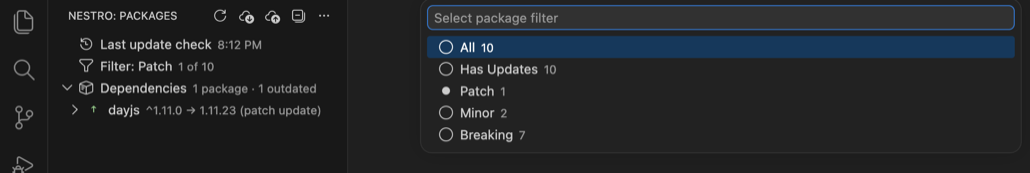
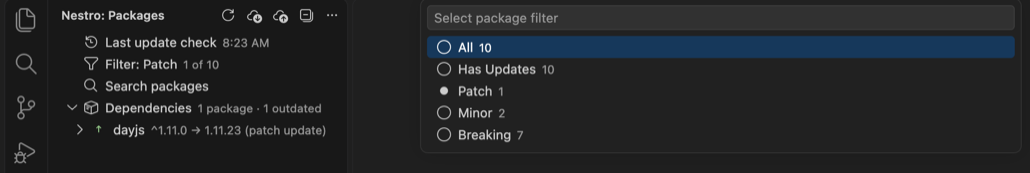
docs: document update check progress, filter rows and the vulnerable filter

diff --git a/CLAUDE.md b/CLAUDE.md
@@ -40,7 +40,7 @@ Manual testing: **F5** → Run Extension (`.vscode/launch.json`) → Extension D
    status report; because the failure is recorded, `nestro.noWorkspace` stays false. `WorkspaceCapabilityResolver`
    resolves global action flags and probes Yarn family outside `runWithYarnFamilyMemo()`, preserving the existing
    uncached call behavior. `getStatusReport()` delegates defensive snapshot assembly to `statusReportAssembler.ts`.
-3. `checkUpdates()` delegates to `UpdateOrchestrationService.check()` (`src/providers/updateOrchestrationService.ts`), which calls `fetchAllLatestVersions()` (ncuClient → `npm-check-updates`) and the metadata registry → enriches each entry with the accepted version, `updateType`, and release-age state (`accepted`, `held-back`, or `unknown`), preserving any live `installing` state set by `markPackageUpdating()`. `checkUpdates()` reports `UpdateCheckProgress` events (phase, counts, last finished package file) to the notification through `updateCheckProgress.ts`. Update results are cached to avoid redundant network calls.
+3. `checkUpdates()` delegates to `UpdateOrchestrationService.check()` (`src/providers/updateOrchestrationService.ts`), which calls `fetchAllLatestVersions()` (ncuClient → `npm-check-updates`) and the metadata registry → enriches each entry with the accepted version, `updateType`, and release-age state (`accepted`, `held-back`, or `unknown`), preserving any live `installing` state set by `markPackageUpdating()`. Release-date lookups run in parallel through `metadataCoordinator`; `checkUpdates()` reports `UpdateCheckProgress` events (phase, counts, last finished package file) to the notification through `updateCheckProgress.ts`. Update results are cached to avoid redundant network calls.
 4. `getChildren()` delegates to `buildTree()` (`src/providers/treeBuilder.ts`) which returns `GroupItem[]` (or `WorkspaceFolderItem[]` when the workspace has more than one `package.json`) — groups split into Dependencies / Dev Dependencies. The active filter/search state renders as `treeView.description` (`formatViewDescription()`), not as tree rows.
 5. Commands mutate provider state via `markPackageUpdating()` / `markPackageUpdated()` / `resetUpdateData()` / `invalidateUpdateCache()`, then fire `_onDidChangeTreeData`. The state-only `markPackageUpdating()` / `markPackageUpdated()` methods take an exact `PackageStateIdentity` tuple `(packageName, packageFilePath, section)`; package-row commands use provider-issued `ResolvedPackageItem` capabilities through `markPackageUpdatingForCapability()` / `markPackageUpdatedForCapability()`, which reject stale capabilities.
 
@@ -80,18 +80,18 @@ Manual testing: **F5** → Run Extension (`.vscode/launch.json`) → Extension D
 - `packageLabels.ts` — the single owner-qualified and relative package-file label builder used by tree rows, package rows, details, status reports, and Update All messages
 - `packageLabelPaths.ts` — normalizes package paths for labels across POSIX, drive, and UNC forms and sanitizes path text
 - `packageLabelDisambiguation.ts` — assigns stable workspace display names and unique label suffixes
-- `FilterManager.ts` — manages active `FilterType` and search state plus the audit-only `vulnerable` view filter (`PackageFilter`), set by `showVulnerable()` and never offered in the picker or saved; fires `onDidChange`, provides QuickPick UI, and reads filter icon colors from `PACKAGE_PRESENTATION`
+- `FilterManager.ts` — manages active `FilterType` and search state plus the audit-only `vulnerable` view filter (`PackageFilter`), set by `showVulnerable()` and never offered in the picker or saved; the hidden `nestro.showVulnerablePackages` command invokes it; fires `onDidChange`, provides QuickPick UI, and reads filter icon colors from `PACKAGE_PRESENTATION`
 - `treeBuilder.ts` — pure package-tree filtering, grouping, projection, and item construction; delegates owner and relative package-file labels to `packageLabels.ts`. Multi-root file rows preserve `WorkspaceFolder.index` ordering, root before subpaths, and alphabetical order within a folder. `getFilterCounts()` excludes packages currently installing; `formatViewDescription()` renders the active filter/search state for `treeView.description`.
 - `auditOrchestrationService.ts` — `AuditOrchestrationService.run()` wraps project resolution and audit work in one `runWithYarnFamilyMemo()` scope, resolves audit projects via `clients` (`resolveAuditProjects()`), runs each project's package-manager audit (`auditProjectRunner.ts`), and folds the per-project outcomes into the `AuditProjectSummary` / `AuditProjectFailure` results `runAudit()` publishes; row attribution lives in `auditRowAttribution.ts` (a row takes the highest severity among its attributed advisories, matching versions through `auditVersionMatching.ts`), and for npm audit report v2, whose advisories carry no version field, `auditInstalledVersion.ts` resolves the installed version from an advisory's single direct `node_modules/<name>` node (`parseDirectNodeModulesNode()`) through a bounded reader (`readNodePackageJsonVersion()`) gated by a realpath-inside-project-root check, leaving anything ambiguous report-only
 - `operationLifecycle.ts` — `OperationLifecycle<T>` owns one operation's generation, `AbortController`, completion and progress cancellation (including a token cancelled before the task starts); load/update/audit controllers keep one each, and `waitForCurrent()` lets checks and audits wait for the current load
 - `packageLoadingService.ts` — `PackageLoadingService.load()` reads workspace `package.json` files and resolves each one's canonical on-disk location into a `PackageLoadingSnapshot` (entries, package file paths, read failures) that `loadPackages()` applies to `PackageRowStore.allEntries`
 - `manifestWriteBaselines.ts` — `ManifestWriteBaselines` compares SHA-256 snapshots around provider writes and keeps a baseline only for a manifest the write changed, dropping it once the file's digest no longer matches
-- `updateOrchestrationService.ts` — `UpdateOrchestrationService.check()` wraps a complete check in `runWithYarnFamilyMemo()` and coordinates cache/debounce and fingerprint reuse; exports `computeUpdateFingerprint()` for the content-fingerprint gate described in Key patterns
+- `updateOrchestrationService.ts` — `UpdateOrchestrationService.check()` wraps a complete check in `runWithYarnFamilyMemo()` and `runWithRegistryConfigMemo()` and coordinates cache/debounce and fingerprint reuse; exports `computeUpdateFingerprint()` for the content-fingerprint gate described in Key patterns
 - `updateCheckProgress.ts` — formats update-check progress messages and monotonic increments for the notification
 - `updateOrchestrationTypes.ts` — update orchestration contracts and result types, re-exported by `updateOrchestrationService.ts` to preserve its public API
 - `updateFingerprint.ts` — computes the content fingerprint from canonical manifest paths, on-disk dependency specs, and update policy
 - `updateCheckFetcher.ts` — resolves canonical coordinator keys, fetches per-manifest latest versions, and reports unresolved roots as explicit per-root failures
-- `updateMetadataFetcher.ts` — resolves registry keys and fetches release-date metadata for unique (registry, package) pairs, bounded only by the metadata coordinator
+- `updateMetadataFetcher.ts` — resolves registry keys and fetches unique (registry, package) release-date lookups in parallel, bounded by `metadataCoordinator` (`METADATA_CONCURRENCY_CAP` is 8)
 - `updateReleaseAge.ts` — classifies the accepted version's release age from the metadata outcomes and current version
 - `updateCache.ts` — owns the cache record, policy key, TTL freshness, and debounce decision
 - `updateResultApplication.ts` — rechecks the fingerprint and current policy before applying results, rejects stale or invalidated fetches, and updates the cache
@@ -101,7 +101,7 @@ Manual testing: **F5** → Run Extension (`.vscode/launch.json`) → Extension D
 - `packageIdentity.ts` — canonical row identity shared by the loading, update, and audit services: `packageIdentityKey()` is the single row identity-key builder; `packageIdentityFromValues()` creates the exact `(name, packageFilePath, section)` tuple, and dependency specs are read from one manifest parse
 - `packageLocationResolution.ts` — `resolveCanonicalPackageLocation()` validates manifest paths against the unique deepest workspace owner; `samePackageFileStamp()` checks whether a manifest still matches its captured stat identity
 - `PackageItem.ts` — defines the package tree row, normalizes active operations, and guards command arguments with `isPackageItem()`
-- `packageItemPresentation.ts` — builds package row descriptions, tooltips, context values, icons, accessibility labels, release-age text, fallback workspace labels, and sanitized package text
+- `packageItemPresentation.ts` — builds package row descriptions, tooltips, context values, icons, accessibility labels, release-age text, fallback workspace labels, and sanitized package text; `sanitizePackageText()` redacts credentials before inline sanitization
 - `PackageDetailItem.ts`, `GroupItem.ts`, `StatusItem.ts`, `LoadingItem.ts`, `MessageItem.ts`, `WorkspaceFolderItem.ts` — other tree item classes
 - `index.ts` — barrel exports for providers
 
@@ -183,7 +183,7 @@ Bottom layer: imports only Node built-ins — never `vscode` or another subsyste
 - `errors.ts` — `describeError()` (an `Error`'s message, otherwise `String(value)`) and `describeStderr()` (`; stderr: …` suffix, empty for blank stderr)
 - `fs.ts` — `hasErrorCode()`, `readOptionalFile()` (returns `undefined` only for `ENOENT`), and lexical `isPathWithin()`
 - `ids.ts` — `COMMAND_IDS`, `VIEW_IDS`, `CONTEXT_KEYS`, and `CONTEXT_VALUE_TOKENS` are the shared command, view, context-key, and tree-token registries
-- `text.ts` — the single text sanitizer and secret redactor: `sanitizeMultilineText()` (ANSI escapes and control characters stripped, line breaks normalized to LF, tabs to spaces; used by the logger), `sanitizeInlineText()` (single-line surfaces: controls and line-break runs become spaces, cut to 240 characters by default; used by tree items, audit report and conflict messages), and `redactCredentials()` (URL user info — any for http(s) URLs, `user:password` for other schemes, `Authorization` values, credential assignments in plain, quoted and JSON form, npm tokens; generic `token`/`api-key` values are masked from a minimum length, 16 by default, and trailing `)`/`]` stay outside the masked value)
+- `text.ts` — the single text sanitizer and secret redactor: `sanitizeMultilineText()` (ANSI escapes and control characters stripped, line breaks normalized to LF, tabs to spaces; used by the logger), `sanitizeInlineText()` (single-line surfaces: controls and line-break runs become spaces, cut to 240 characters by default; used by tree items, audit report and conflict messages), and `redactCredentials()` (removes all user info from `http(s)` and `*+http(s)` URLs, removes `user:password` from other schemes, masks `Authorization` values, credential assignments in plain, quoted and JSON form, and npm tokens; generic `token`/`api-key` values are masked from a minimum length, 16 by default, and trailing `)`/`]` stay outside the masked value)
 - `settingValues.ts` — the vscode-free knowledge behind `nestro.*` settings: `UPDATE_TARGETS`, `FILTER_TYPES` (with `isUpdateTarget()` / `isFilterType()`), the minimum release-age default and maximum, and `readMinimumReleaseAgeDays()` (a whole number in range is kept, anything else becomes the default); `config`, `providers` and `utils` import these instead of redefining them
 - `versionGrammar.ts` — the single version/spec grammar: one anchored SemVer pattern behind `parseConcreteSemver()` / `isConcreteSemver()`, `parseVersionString()` (optional `workspace:` and comparator operator, then an exact SemVer; aliases, tags and compound ranges are `undefined`), `unwrapNpmAlias()`, `rangeBaseVersion()` (first comparator of a range's first `||` alternative, when an exact SemVer), `extractRangePrefix()` / `stripVersionDecorations()`, `isVersionOperand()` (the install-operand allowlist) and the `WORKSPACE_PROTOCOL` constant; read by `dependencySpec.ts`, `versionUtils.ts`, `packageTransforms.ts`, `registryClient.ts`, `pickVersion.ts` and `operandValidation.ts`
 - `packageManagers.ts` — the package-manager table: `PACKAGE_MANAGERS` holds each manager's bin, lock files, install/add/remove verbs, dev flag, optional workspace-root flag (`removeNeedsWorkspaceRootFlag` when `remove` needs it too) and command dialect (audit argv, native metadata argv up to `--`, registry config file name), `YARN_DIALECTS` the Classic/Modern pairs; `PackageManager`, `DEFAULT_PACKAGE_MANAGER`, `LOCKFILES` in detection order (`LOCKFILE_PRIORITY`: pnpm, Yarn, Bun, npm), `NODE_MODULES_EXCLUDE_GLOB`, `isPackageManager()`, and `parsePackageManagerField()` (the single reader of a manifest `packageManager` field); adding a manager is one entry here plus its audit-schema parser

diff --git a/AGENTS.md b/AGENTS.md
@@ -38,7 +38,7 @@ Manual testing: **F5** → Run Extension (`.vscode/launch.json`) → Extension D
    status report; because the failure is recorded, `nestro.noWorkspace` stays false. `WorkspaceCapabilityResolver`
    resolves global action flags and probes Yarn family outside `runWithYarnFamilyMemo()`, preserving the existing
    uncached call behavior. `getStatusReport()` delegates defensive snapshot assembly to `statusReportAssembler.ts`.
-3. `checkUpdates()` delegates to `UpdateOrchestrationService.check()` (`src/providers/updateOrchestrationService.ts`), which calls `fetchAllLatestVersions()` (ncuClient → `npm-check-updates`) and the metadata registry → enriches each entry with the accepted version, `updateType`, and release-age state (`accepted`, `held-back`, or `unknown`), preserving any live `installing` state set by `markPackageUpdating()`. `checkUpdates()` reports `UpdateCheckProgress` events (phase, counts, last finished package file) to the notification through `updateCheckProgress.ts`. Update results are cached to avoid redundant network calls.
+3. `checkUpdates()` delegates to `UpdateOrchestrationService.check()` (`src/providers/updateOrchestrationService.ts`), which calls `fetchAllLatestVersions()` (ncuClient → `npm-check-updates`) and the metadata registry → enriches each entry with the accepted version, `updateType`, and release-age state (`accepted`, `held-back`, or `unknown`), preserving any live `installing` state set by `markPackageUpdating()`. Release-date lookups run in parallel through `metadataCoordinator`; `checkUpdates()` reports `UpdateCheckProgress` events (phase, counts, last finished package file) to the notification through `updateCheckProgress.ts`. Update results are cached to avoid redundant network calls.
 4. `getChildren()` delegates to `buildTree()` (`src/providers/treeBuilder.ts`) which returns `GroupItem[]` (or `WorkspaceFolderItem[]` when the workspace has more than one `package.json`) — groups split into Dependencies / Dev Dependencies. The active filter/search state renders as `treeView.description` (`formatViewDescription()`), not as tree rows.
 5. Commands mutate provider state via `markPackageUpdating()` / `markPackageUpdated()` / `resetUpdateData()` / `invalidateUpdateCache()`, then fire `_onDidChangeTreeData`. The state-only `markPackageUpdating()` / `markPackageUpdated()` methods take an exact `PackageStateIdentity` tuple `(packageName, packageFilePath, section)`; package-row commands use provider-issued `ResolvedPackageItem` capabilities through `markPackageUpdatingForCapability()` / `markPackageUpdatedForCapability()`, which reject stale capabilities.
 
@@ -78,18 +78,18 @@ Manual testing: **F5** → Run Extension (`.vscode/launch.json`) → Extension D
 - `packageLabels.ts` — the single owner-qualified and relative package-file label builder used by tree rows, package rows, details, status reports, and Update All messages
 - `packageLabelPaths.ts` — normalizes package paths for labels across POSIX, drive, and UNC forms and sanitizes path text
 - `packageLabelDisambiguation.ts` — assigns stable workspace display names and unique label suffixes
-- `FilterManager.ts` — manages active `FilterType` and search state plus the audit-only `vulnerable` view filter (`PackageFilter`), set by `showVulnerable()` and never offered in the picker or saved; fires `onDidChange`, provides QuickPick UI, and reads filter icon colors from `PACKAGE_PRESENTATION`
+- `FilterManager.ts` — manages active `FilterType` and search state plus the audit-only `vulnerable` view filter (`PackageFilter`), set by `showVulnerable()` and never offered in the picker or saved; the hidden `nestro.showVulnerablePackages` command invokes it; fires `onDidChange`, provides QuickPick UI, and reads filter icon colors from `PACKAGE_PRESENTATION`
 - `treeBuilder.ts` — pure package-tree filtering, grouping, projection, and item construction; delegates owner and relative package-file labels to `packageLabels.ts`. Multi-root file rows preserve `WorkspaceFolder.index` ordering, root before subpaths, and alphabetical order within a folder. `getFilterCounts()` excludes packages currently installing; `formatViewDescription()` renders the active filter/search state for `treeView.description`.
 - `auditOrchestrationService.ts` — `AuditOrchestrationService.run()` wraps project resolution and audit work in one `runWithYarnFamilyMemo()` scope, resolves audit projects via `clients` (`resolveAuditProjects()`), runs each project's package-manager audit (`auditProjectRunner.ts`), and folds the per-project outcomes into the `AuditProjectSummary` / `AuditProjectFailure` results `runAudit()` publishes; row attribution lives in `auditRowAttribution.ts` (a row takes the highest severity among its attributed advisories, matching versions through `auditVersionMatching.ts`), and for npm audit report v2, whose advisories carry no version field, `auditInstalledVersion.ts` resolves the installed version from an advisory's single direct `node_modules/<name>` node (`parseDirectNodeModulesNode()`) through a bounded reader (`readNodePackageJsonVersion()`) gated by a realpath-inside-project-root check, leaving anything ambiguous report-only
 - `operationLifecycle.ts` — `OperationLifecycle<T>` owns one operation's generation, `AbortController`, completion and progress cancellation (including a token cancelled before the task starts); load/update/audit controllers keep one each, and `waitForCurrent()` lets checks and audits wait for the current load
 - `packageLoadingService.ts` — `PackageLoadingService.load()` reads workspace `package.json` files and resolves each one's canonical on-disk location into a `PackageLoadingSnapshot` (entries, package file paths, read failures) that `loadPackages()` applies to `PackageRowStore.allEntries`
 - `manifestWriteBaselines.ts` — `ManifestWriteBaselines` compares SHA-256 snapshots around provider writes and keeps a baseline only for a manifest the write changed, dropping it once the file's digest no longer matches
-- `updateOrchestrationService.ts` — `UpdateOrchestrationService.check()` wraps a complete check in `runWithYarnFamilyMemo()` and coordinates cache/debounce and fingerprint reuse; exports `computeUpdateFingerprint()` for the content-fingerprint gate described in Key patterns
+- `updateOrchestrationService.ts` — `UpdateOrchestrationService.check()` wraps a complete check in `runWithYarnFamilyMemo()` and `runWithRegistryConfigMemo()` and coordinates cache/debounce and fingerprint reuse; exports `computeUpdateFingerprint()` for the content-fingerprint gate described in Key patterns
 - `updateCheckProgress.ts` — formats update-check progress messages and monotonic increments for the notification
 - `updateOrchestrationTypes.ts` — update orchestration contracts and result types, re-exported by `updateOrchestrationService.ts` to preserve its public API
 - `updateFingerprint.ts` — computes the content fingerprint from canonical manifest paths, on-disk dependency specs, and update policy
 - `updateCheckFetcher.ts` — resolves canonical coordinator keys, fetches per-manifest latest versions, and reports unresolved roots as explicit per-root failures
-- `updateMetadataFetcher.ts` — resolves registry keys and fetches release-date metadata for unique (registry, package) pairs, bounded only by the metadata coordinator
+- `updateMetadataFetcher.ts` — resolves registry keys and fetches unique (registry, package) release-date lookups in parallel, bounded by `metadataCoordinator` (`METADATA_CONCURRENCY_CAP` is 8)
 - `updateReleaseAge.ts` — classifies the accepted version's release age from the metadata outcomes and current version
 - `updateCache.ts` — owns the cache record, policy key, TTL freshness, and debounce decision
 - `updateResultApplication.ts` — rechecks the fingerprint and current policy before applying results, rejects stale or invalidated fetches, and updates the cache
@@ -99,7 +99,7 @@ Manual testing: **F5** → Run Extension (`.vscode/launch.json`) → Extension D
 - `packageIdentity.ts` — canonical row identity shared by the loading, update, and audit services: `packageIdentityKey()` is the single row identity-key builder; `packageIdentityFromValues()` creates the exact `(name, packageFilePath, section)` tuple, and dependency specs are read from one manifest parse
 - `packageLocationResolution.ts` — `resolveCanonicalPackageLocation()` validates manifest paths against the unique deepest workspace owner; `samePackageFileStamp()` checks whether a manifest still matches its captured stat identity
 - `PackageItem.ts` — defines the package tree row, normalizes active operations, and guards command arguments with `isPackageItem()`
-- `packageItemPresentation.ts` — builds package row descriptions, tooltips, context values, icons, accessibility labels, release-age text, fallback workspace labels, and sanitized package text
+- `packageItemPresentation.ts` — builds package row descriptions, tooltips, context values, icons, accessibility labels, release-age text, fallback workspace labels, and sanitized package text; `sanitizePackageText()` redacts credentials before inline sanitization
 - `PackageDetailItem.ts`, `GroupItem.ts`, `StatusItem.ts`, `LoadingItem.ts`, `MessageItem.ts`, `WorkspaceFolderItem.ts` — other tree item classes
 - `index.ts` — barrel exports for providers
 
@@ -181,7 +181,7 @@ Bottom layer: imports only Node built-ins — never `vscode` or another subsyste
 - `errors.ts` — `describeError()` (an `Error`'s message, otherwise `String(value)`) and `describeStderr()` (`; stderr: …` suffix, empty for blank stderr)
 - `fs.ts` — `hasErrorCode()`, `readOptionalFile()` (returns `undefined` only for `ENOENT`), and lexical `isPathWithin()`
 - `ids.ts` — `COMMAND_IDS`, `VIEW_IDS`, `CONTEXT_KEYS`, and `CONTEXT_VALUE_TOKENS` are the shared command, view, context-key, and tree-token registries
-- `text.ts` — the single text sanitizer and secret redactor: `sanitizeMultilineText()` (ANSI escapes and control characters stripped, line breaks normalized to LF, tabs to spaces; used by the logger), `sanitizeInlineText()` (single-line surfaces: controls and line-break runs become spaces, cut to 240 characters by default; used by tree items, audit report and conflict messages), and `redactCredentials()` (URL user info — any for http(s) URLs, `user:password` for other schemes, `Authorization` values, credential assignments in plain, quoted and JSON form, npm tokens; generic `token`/`api-key` values are masked from a minimum length, 16 by default, and trailing `)`/`]` stay outside the masked value)
+- `text.ts` — the single text sanitizer and secret redactor: `sanitizeMultilineText()` (ANSI escapes and control characters stripped, line breaks normalized to LF, tabs to spaces; used by the logger), `sanitizeInlineText()` (single-line surfaces: controls and line-break runs become spaces, cut to 240 characters by default; used by tree items, audit report and conflict messages), and `redactCredentials()` (removes all user info from `http(s)` and `*+http(s)` URLs, removes `user:password` from other schemes, masks `Authorization` values, credential assignments in plain, quoted and JSON form, and npm tokens; generic `token`/`api-key` values are masked from a minimum length, 16 by default, and trailing `)`/`]` stay outside the masked value)
 - `settingValues.ts` — the vscode-free knowledge behind `nestro.*` settings: `UPDATE_TARGETS`, `FILTER_TYPES` (with `isUpdateTarget()` / `isFilterType()`), the minimum release-age default and maximum, and `readMinimumReleaseAgeDays()` (a whole number in range is kept, anything else becomes the default); `config`, `providers` and `utils` import these instead of redefining them
 - `versionGrammar.ts` — the single version/spec grammar: one anchored SemVer pattern behind `parseConcreteSemver()` / `isConcreteSemver()`, `parseVersionString()` (optional `workspace:` and comparator operator, then an exact SemVer; aliases, tags and compound ranges are `undefined`), `unwrapNpmAlias()`, `rangeBaseVersion()` (first comparator of a range's first `||` alternative, when an exact SemVer), `extractRangePrefix()` / `stripVersionDecorations()`, `isVersionOperand()` (the install-operand allowlist) and the `WORKSPACE_PROTOCOL` constant; read by `dependencySpec.ts`, `versionUtils.ts`, `packageTransforms.ts`, `registryClient.ts`, `pickVersion.ts` and `operandValidation.ts`
 - `packageManagers.ts` — the package-manager table: `PACKAGE_MANAGERS` holds each manager's bin, lock files, install/add/remove verbs, dev flag, optional workspace-root flag (`removeNeedsWorkspaceRootFlag` when `remove` needs it too) and command dialect (audit argv, native metadata argv up to `--`, registry config file name), `YARN_DIALECTS` the Classic/Modern pairs; `PackageManager`, `DEFAULT_PACKAGE_MANAGER`, `LOCKFILES` in detection order (`LOCKFILE_PRIORITY`: pnpm, Yarn, Bun, npm), `NODE_MODULES_EXCLUDE_GLOB`, `isPackageManager()`, and `parsePackageManagerField()` (the single reader of a manifest `packageManager` field); adding a manager is one entry here plus its audit-schema parser

diff --git a/README.md b/README.md
@@ -69,22 +69,29 @@ pin** (shown only when the dependency's current version spec supports pinning), 
 
 ### Filter, search, and status
 
-The active filter and any search text each show as a status row above the package groups — for
-example "Filter: Has Updates" with a "3 of 10" count, or `Search: "react"` with the number of
-matches. Clicking either row reopens the corresponding picker or search box. The same state also
-renders as compact text next to the view title (`Has Updates (3)` or `Has Updates (3) ·
+The **Filter** and **Search** status rows stay visible whenever those actions are available,
+including `Filter: All` with the package count and `Search packages` when no filter or query is
+active. Clicking a row opens the corresponding picker or search box. With a query, the row shows
+`Search: "react"` and the number of matches, with an inline **Clear Search** button. The same
+state also renders as compact text next to the view title (`Has Updates (3)` or `Has Updates (3) ·
 "react"`), which VS Code shows only in the view's own pane header — for example after moving
-Nestro into a container with more than one view. Select Filter opens a picker for All, Has
-Updates, Patch, Minor, or Breaking, each with a live count. The sidebar badge shows the number of
-packages with an available update under the All filter, independent of whatever filter is
-currently active.
+Nestro into a container with more than one view. Select Filter opens a picker for All, Has Updates,
+Patch, Minor, or Breaking, each with a live count. **Vulnerable** is a temporary filter available
+only from an audit status row; it is not in the picker or saved to settings, and a new audit or
+package reload resets it to All. When vulnerable dependency rows exist, clicking an audit status
+row turns on this filter; clicking the audit row again opens the report. If the report contains
+vulnerabilities but none can be attributed to a direct dependency row, the audit row opens the
+report instead. Audit counts include the full project graph, while the filter shows only directly
+attributed dependencies; a status such as `13 vulnerable packages, 4 in the list` can therefore
+include transitive packages. The sidebar badge shows the number of packages with an available
+update under the All filter, independent of whatever filter is currently active.
 
-Status rows appear above the package groups when relevant: a run in progress ("Checking
-updates…", "Running audit…"), a summary ("Last update check", "Audit complete"), a problem
+Other status rows appear above the package groups when relevant: a run in progress ("Checking
+updates…", "Running audit…"), a summary ("Last update check", "Audit complete"), or a problem
 ("Package read incomplete", "Update check incomplete", "Audit incomplete", "Audit failed",
-"Workspace package loading failed"), or the active filter/search state ("Filter: …", "Search:
-…"). Rows that report a failure are clickable and open the diagnostics report; the filter and
-search rows are clickable too and reopen their picker or search box.
+"Workspace package loading failed"). Rows that report a failure are clickable and open the
+diagnostics report. The Filter and Search rows remain at the bottom of the status list whenever
+their actions are available.
 
 ## Update checks
 
@@ -103,6 +110,10 @@ enable `nestro.checkUpdatesOnStartup` (disabled by default).
   still inside its cooldown is classified as held back rather than offered, a release whose
   publish time is unavailable is reported as unknown, and applying a held-back version asks for
   confirmation first.
+- **Progress** — the cancellable notification reports version discovery and release-date checks
+  separately. For multiple `package.json` files it shows the last processed file and the file
+  count; for one manifest it shows the dependency count, followed by a completed/total count for
+  release dates. Release dates are fetched in parallel.
 - **Prereleases** — alpha, beta, and release-candidate versions are excluded unless you enable
   `nestro.includePreReleases` (default `false`).
 
@@ -143,6 +154,10 @@ opens the full report, including project-level results, in the **Nestro Security
 channel. Enable `nestro.runAuditOnStartup` (default `false`) to run one audit per project after
 the initial scan on each activation.
 
+Click an audit status row to show the **Vulnerable** filter for directly affected dependencies;
+click it again to open the report. See [Filter, search, and status](#filter-search-and-status)
+for details about the filter and how audit counts can include transitive packages.
+
 ## Monorepos and multi-root workspaces
 
 Nestro discovers every `package.json` matching `nestro.monorepoGlob` (default
@@ -172,16 +187,16 @@ owning workspace folder; the nearest directory with a recognized signal wins, an
 ## Screenshots
 
 ### Package overview
-![Nestro sidebar after an update check: packages grouped into Dependencies and Dev Dependencies, each row showing its update type and target version, with the update-count badge on the Activity Bar icon](images/overview.png)
+![Nestro sidebar after an update check: Filter: All and Search packages status rows above the dependency groups, each package row showing its update type and target version, with the update-count badge on the Activity Bar icon](images/overview.png)
 
 ### Filter by update type
-![Filter picker for narrowing the package list by update type, with a live count per filter and the active filter shown as a status row in the tree](images/filters.png)
+![Filter picker for narrowing the package list by update type, with a live count per filter and the Filter: Patch and Search packages status rows shown above the tree](images/filters.png)
 
 ### Pick a specific version
 ![Version picker listing the available versions of express, with the row's inline Update and Pick Version actions visible](images/pick-version.png)
 
 ### Security audit
-![Sidebar after Run Security Audit, with the status row reporting the number of vulnerable packages and a warning marker on each directly affected package row](images/audit.png)
+![Sidebar after Run Security Audit with the Vulnerable filter active: the Filter: Vulnerable and Search packages rows appear above the tree, with warning markers on directly affected package rows](images/audit.png)
 
 ## Settings
 

diff --git a/images/SCREENSHOTS.md b/images/SCREENSHOTS.md
@@ -46,16 +46,17 @@ registries, or credentials (dependency sections only; the real file also has a `
 
 `package-lock.json` came from `npm install --package-lock-only`; `node_modules` was installed with
 `npm install --ignore-scripts` (npm 11). The "latest" versions shown in the frames are whatever
-the public registry returned on the capture date (2026-09-18) and will drift.
+the public registry returned on the capture date (2026-11-13; 2026-09-18 for `pick-version.png`)
+and will drift.
 
 ## Frames
 
 | File | Size (px) | What the frame shows | How the state was produced |
 |---|---|---|---|
-| `overview.png` | 348×333 | Sidebar after an update check: toolbar with Refresh, Check for Updates, Update All and the `…` overflow; the update-count badge on the Activity Bar icon; the "Last update check" status row; Dependencies and Dev Dependencies groups with the update type per row | **Check for Updates**, wait for the check to finish |
-| `filters.png` | 1030×173 | The **Select Filter** QuickPick with All / Has Updates / Patch / Minor / Breaking and their live counts, Patch active; the tree behind it filtered to the single patch update, with the "Filter: Patch · 1 of 10" status row above the group | select the Patch filter, then open **Select Filter** again |
+| `overview.png` | 348×376 | Sidebar after an update check: toolbar with Refresh, Check for Updates, Update All and the `…` overflow; the update-count badge on the Activity Bar icon; the "Last update check" row followed by "Filter: All" and "Search packages"; Dependencies and Dev Dependencies groups with the update type per row | **Check for Updates**, wait for the check to finish |
+| `filters.png` | 1030×173 | The **Select Filter** QuickPick with All / Has Updates / Patch / Minor / Breaking and their live counts, Patch active; the tree behind it filtered to the patch updates, with the "Filter: Patch" and "Search packages" rows above the group | select the Patch filter, then open **Select Filter** again |
 | `pick-version.png` | 1030×445 | The **Pick Version...** QuickPick for `express`: version list with the `latest` tag and a held-back entry with its eligibility date; the focused row shows its two inline actions, Update Package and Pick Version | focus the `express` row, run **Pick Version...** for it |
-| `audit.png` | 348×355 | Sidebar after **Run Security Audit**: the "Audit complete · 6 vulnerable packages" status row above the package groups, and the vulnerability marker on the three directly affected rows (`axios`, `lodash`, `vitest`) | **Run Security Audit**, wait for the audit to finish |
+| `audit.png` | 348×244 | Sidebar after **Run Security Audit**: the "Last update check" and "Audit complete · 7 vulnerable packages" rows, then "Filter: Vulnerable · 3 of 10" and "Search packages" above the groups; only the three directly affected rows (`axios`, `lodash`, `vitest`) remain, each with its vulnerability marker | **Run Security Audit**, wait for the audit, then run `nestro.showVulnerablePackages` |
 
 The sizes above are from the run that produced the current `images/*.png`. `scripts/screenshots/capture.mjs`
 crops each frame's bottom edge to the content it actually captured, so a later run's sizes come from
@@ -73,8 +74,8 @@ is 300 px wide in every file.
   query is active), Run Install, Run Security Audit, Pin All Versions, Settings.
 - The row context menu: Open on npmjs.com, Copy Package Name, Switch to dev/dep, Toggle version
   pin (only for rows whose spec can be pinned), Remove Package.
-- The "Search: …" status row (no search query is active in any frame); it appears above the
-  groups in the same way as the filter row in `filters.png`.
+- The active "Search: …" status row and its inline Clear Search action (no query is active in any
+  frame; the empty "Search packages" row is visible in the overview, filters, and audit frames).
 - The active filter or search query as the *view description* — the compact text next to the view
   title. VS Code renders it only in the view's own pane header, and while Nestro is the only view
   in its container that header is merged into the sidebar title, so the description text does not

diff --git a/scripts/screenshots/README.md b/scripts/screenshots/README.md
@@ -100,7 +100,9 @@ a `state-<name>.ready` marker file when a frame is ready to capture and waiting 
 `capture.mjs` to write back `state-<name>.done` before moving on — the same ready/done marker
 handshake used to build the original, untracked version of this pipeline. The requested states and
 the markers directory travel through the `NESTRO_CAPTURE_STATES` and
-`NESTRO_CAPTURE_MARKERS_DIR` environment variables.
+`NESTRO_CAPTURE_MARKERS_DIR` environment variables. For the `audit` state, the driver starts the
+audit, waits for the configured delay, then runs `nestro.showVulnerablePackages` before marking the
+frame ready.
 
 ## Shared configuration
 
